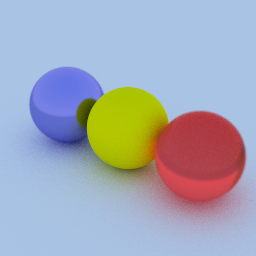
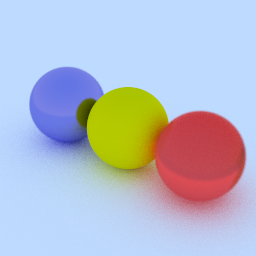
tweaks

diff --git a/main.c b/main.c
@@ -167,7 +167,7 @@ int main()
     cray_lambertian_init(&lam[0]);
     cray_lambertian_color(&lam[0], 0.8, 0.8, 0.0);
     cray_lambertian_init(&lam[1]);
-    cray_lambertian_color(&lam[1], 0.8, 0.8, 0.8);
+    cray_lambertian_color(&lam[1], 1.0, 1.0, 1.0);
 
     cray_metal_init(&met[0]);
     cray_metal_color(&met[0], 0.3, 0.3, 0.8);

diff --git a/README.md b/README.md
@@ -1,6 +1,6 @@
 # CRay
 
-This will eventually be a simple raytracer, written in ANSI C, based off of
+A simple raytracer, written in ANSI C, based off of
 Peter Shirley's raytracer in "Ray Tracing in One Weekend".
 
 ![cray](cray.png)
